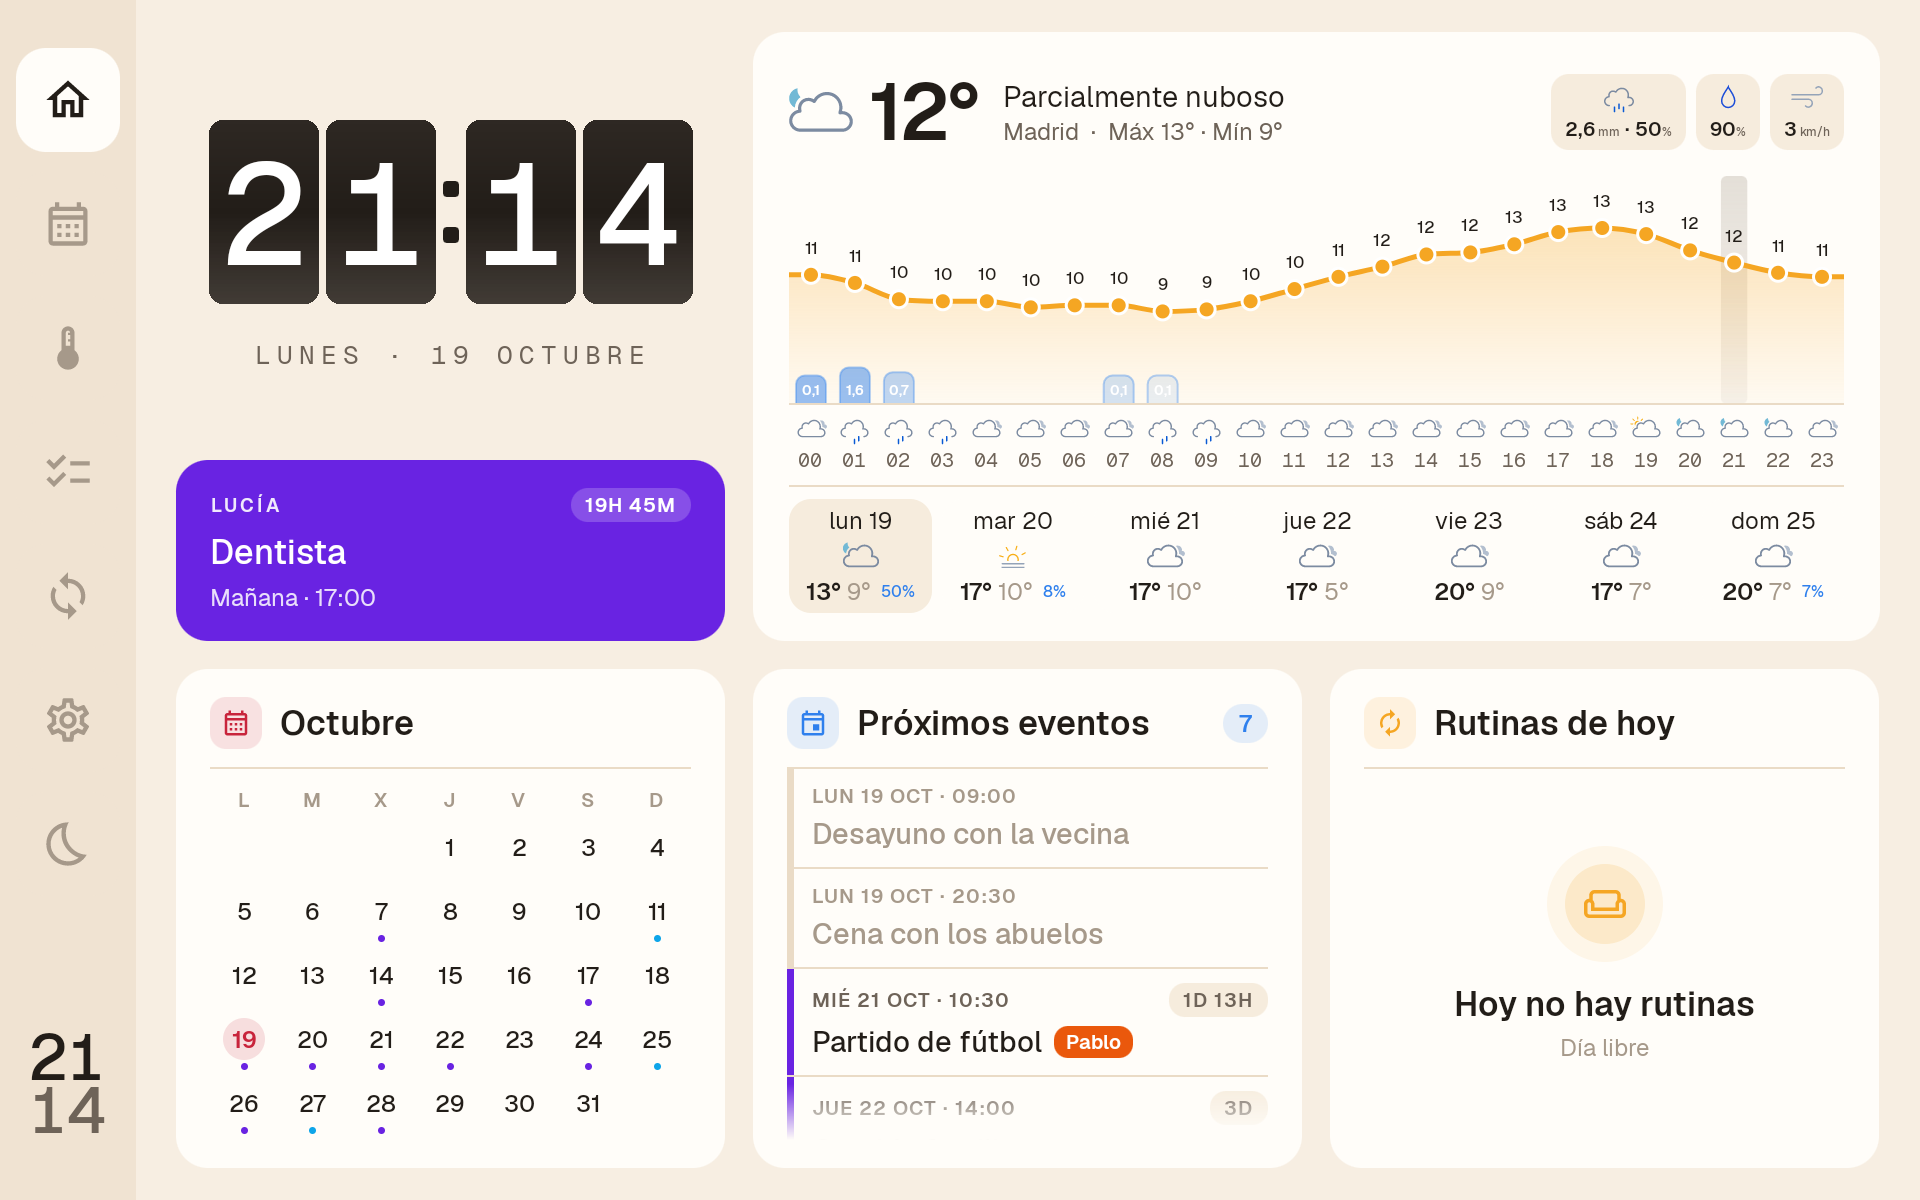
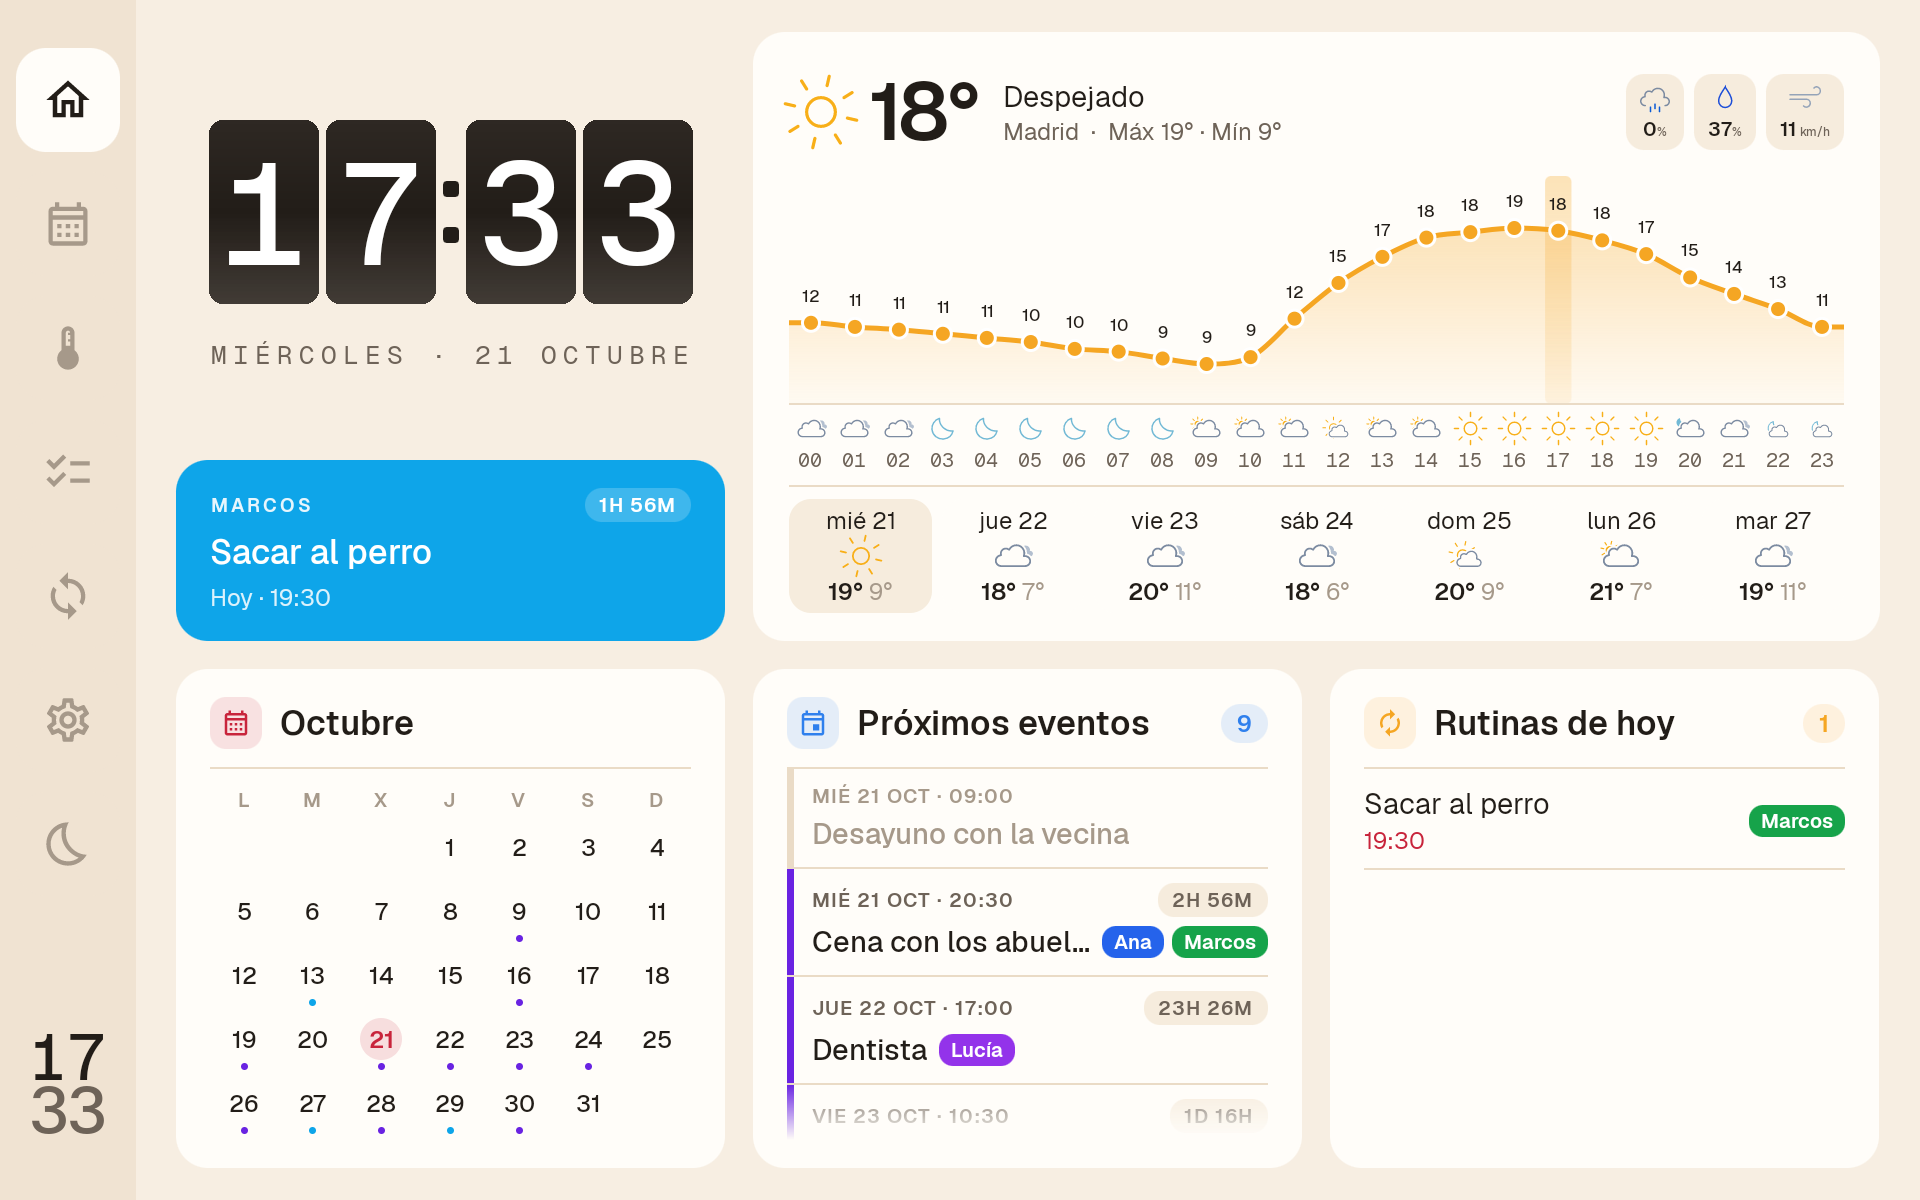
Hoy: la tarjeta destacada también tiene en cuenta las rutinas
Muestra lo siguiente, sea evento o sesión de rutina. Si es un evento, no se repite en Próximos eventos; una rutina
sigue también en Rutinas de hoy.

diff --git a/android/app/src/main/java/com/lito/planify/dashboard/ui/TodayScreen.kt b/android/app/src/main/java/com/lito/planify/dashboard/ui/TodayScreen.kt
@@ -129,7 +129,7 @@ private fun Card(modifier: Modifier, content: @Composable ColumnScope.() -> Unit
 private fun ClockColumn(state: UiState, modifier: Modifier) {
     val now = state.now
     val today = now.toLocalDate()
-    val next = nextEvent(state.content?.events.orEmpty().filter { it.at.toLocalDate() >= today }, now)
+    val next = nextUp(state)
     Column(modifier) {
         // Hora y fecha, centradas en el espacio que deja la tarjeta del siguiente evento
         Column(Modifier.fillMaxWidth().weight(1f), horizontalAlignment = Alignment.CenterHorizontally, verticalArrangement = Arrangement.Center) {
@@ -145,8 +145,14 @@ private fun ClockColumn(state: UiState, modifier: Modifier) {
     }
 }
 
-/** El siguiente evento: el primero que aún no ha empezado. Va en su tarjeta y no se repite en la lista de próximos. */
-private fun nextEvent(events: List<Event>, now: LocalDateTime): Event? = events.firstOrNull { !it.at.isBefore(now) }
+/**
+ * Lo siguiente: el primer evento o sesión de rutina que aún no ha empezado. Va en su tarjeta; si es un evento, no se
+ * repite en la lista de próximos (las rutinas siguen todas en la suya).
+ */
+private fun nextUp(state: UiState): Event? {
+    val content = state.content ?: return null
+    return (content.events + content.sessions).filter { !it.at.isBefore(state.now) }.minByOrNull { it.at }
+}
 
 /**
  * Próximo evento en una tarjeta del color de su calendario. Arriba, sus personas y, a la derecha, lo que falta en una
@@ -284,9 +290,8 @@ private fun EventsCard(state: UiState, day: LocalDate?, modifier: Modifier) {
     val events = if (day != null) {
         all.filter { it.at.toLocalDate() == day }
     } else {
-        val upcoming = all.filter { it.at.toLocalDate() >= now.toLocalDate() }
-        val next = nextEvent(upcoming, now)
-        upcoming.filter { it !== next }
+        val next = nextUp(state)
+        all.filter { it.at.toLocalDate() >= now.toLocalDate() && it !== next }
     }
     Card(modifier) {
         val dayName = day?.let { "${it.weekdayName()} ${it.dayOfMonth}" }

diff --git a/docs/ARCHITECTURE.md b/docs/ARCHITECTURE.md
@@ -9,7 +9,7 @@ La barra lateral izquierda tiene arriba, solo con iconos, Hoy, Calendario, Tiemp
 Sin sesión iniciada se muestra el login (icono de Planify y formulario, centrados). Si no hay Internet, en su lugar aparece "Esperando conexión a Internet…" con "Ir a Ajustes" (ajustes de Wi-Fi), y el formulario aparece solo cuando llega la red.
 
 - **Hoy:** rejilla de 3 columnas en dos filas (55 % y 45 % del alto).
-  - Arriba, en 1/3, la hora y la fecha centradas y el **siguiente** evento (tarjeta del color de su calendario: sus personas y, a la derecha, lo que falta en una píldora, como en la lista de próximos eventos; debajo, el título y el día y la hora). Ese evento no se repite en la lista de próximos eventos. En 2/3, la **tarjeta del tiempo**: icono, temperatura y estado; lluvia del día, humedad y viento como iconos con su valor (Meteocons estáticos); la curva hora a hora del día de hoy, de 00 a 23 h (la hora actual marcada con una banda translúcida, amarilla de día y gris de noche; la temperatura de todas las horas, pequeña y sin «°») con barras de lluvia solo donde llueve (el alto es la cantidad y el relleno, la probabilidad; ver más abajo); debajo, el icono del tiempo de cada hora y, abajo del todo, la hora; y, separados por una línea, los días en columnas, que se deslizan para ver la semana siguiente (vuelven a la primera a los 2 minutos). Al tocar un día, la cabecera y la curva pasan a ese día; tocarlo otra vez, o tocar hoy, vuelve a hoy (y vuelve solo a los 2 minutos). Deslizar sobre la curva pasa al día anterior o al siguiente: la curva es un pager de días que sigue al dedo (los días de abajo pasan a la página del día).
+  - Arriba, en 1/3, la hora y la fecha centradas y lo **siguiente**, sea evento o rutina (tarjeta del color de su calendario: sus personas y, a la derecha, lo que falta en una píldora, como en la lista de próximos eventos; debajo, el título y el día y la hora). Si es un evento, no se repite en la lista de próximos eventos; una rutina sigue también en la suya. En 2/3, la **tarjeta del tiempo**: icono, temperatura y estado; lluvia del día, humedad y viento como iconos con su valor (Meteocons estáticos); la curva hora a hora del día de hoy, de 00 a 23 h (la hora actual marcada con una banda translúcida, amarilla de día y gris de noche; la temperatura de todas las horas, pequeña y sin «°») con barras de lluvia solo donde llueve (el alto es la cantidad y el relleno, la probabilidad; ver más abajo); debajo, el icono del tiempo de cada hora y, abajo del todo, la hora; y, separados por una línea, los días en columnas, que se deslizan para ver la semana siguiente (vuelven a la primera a los 2 minutos). Al tocar un día, la cabecera y la curva pasan a ese día; tocarlo otra vez, o tocar hoy, vuelve a hoy (y vuelve solo a los 2 minutos). Deslizar sobre la curva pasa al día anterior o al siguiente: la curva es un pager de días que sigue al dedo (los días de abajo pasan a la página del día).
   - Abajo, el **calendario del mes**, como el de Eventos de la app (las iniciales de los días; hoy en un círculo rojo suave; un punto por cada calendario con eventos ese día, hasta 3), que se desliza para cambiar de mes (12 hacia atrás y 12 hacia delante; el título lleva el año si no es el actual); **próximos eventos** con el formato del widget de la app (barra de color, "MIÉ 14 OCT · 16:00" con el tiempo que falta en una píldora, título y personas; los pasados en gris), y **rutinas de hoy** (la lista, con la siguiente resaltada y las pasadas atenuadas). Al tocar un día del calendario se marca con un aro gris y próximos eventos pasa a ser la lista de ese día ("Miércoles 21", incluido el siguiente evento); tocarlo otra vez vuelve a la lista. Tras 5 minutos sin tocar la pantalla, el calendario vuelve al mes actual y la lista a los próximos eventos.
 - **Calendario:** dos filas, la semana actual y la siguiente, de lunes a domingo, sin título (como el diseño de referencia). Se desliza en vertical de semana en semana (`VerticalPager` con páginas de media pantalla; un año hacia cada lado; "Volver a hoy", flotando abajo a la derecha, regresa a la actual). Cada día es una tarjeta (hoy, más clara): arriba el día de la semana ("Hoy" en rojo; el día 1, también el mes) y el número a la derecha; debajo, en una línea de alto fijo, el icono del tiempo, máxima y mínima y la lluvia con su gota; luego los eventos (barra de color, hora, título y personas) y abajo, en una caja, las rutinas (hora, un punto por persona y el nombre, que sigue en la línea de debajo). Los días pasados, atenuados. Cada semana se descarga al mostrarla, junto con las vecinas.
 - **Tiempo:** dos páginas que se deslizan. La primera es la tarjeta del tiempo a pantalla completa: el mismo día de hoy de 00 a 23 h que en Hoy (la temperatura de cada hora, también sin «°»), con el icono de cada hora encima de la hora, y 7 días. La segunda, la **semana siguiente** (días 8 a 14): gráfica de máximas y mínimas, lluvia (% y mm) y viento, y las columnas de cada día. En las dos páginas, tocar un día abre sus 24 horas (en la segunda, en lugar de la gráfica semanal) y tocarlo otra vez lo cierra. Deslizar sobre la gráfica cambia de día sin cambiar de página, con la gráfica siguiendo al dedo (en la segunda: semana → lunes → … → domingo); al pasar del último día de la primera sigue la segunda, y antes de su semana se vuelve a la primera. Deslizar fuera de la gráfica, entre las dos páginas.

diff --git a/README.md b/README.md
@@ -35,7 +35,7 @@ Este proyecto está conectado con la aplicación y el backend de Planify:
 Todas las secciones de la app, en el emulador con las medidas del marco (1920×1200) y datos de demostración.
 
 ### Hoy
-La pantalla principal: reloj de paletas, el siguiente evento con cuenta atrás, el tiempo (ahora, el día de hoy de 00 a 23 h con la hora actual marcada y los próximos días; deslizando sobre la curva se cambia de día), el calendario del mes, los próximos eventos y las rutinas de hoy. Al tocar un día del calendario, la lista pasa a ser la de ese día.
+La pantalla principal: reloj de paletas, el siguiente evento o rutina con cuenta atrás, el tiempo (ahora, el día de hoy de 00 a 23 h con la hora actual marcada y los próximos días; deslizando sobre la curva se cambia de día), el calendario del mes, los próximos eventos y las rutinas de hoy. Al tocar un día del calendario, la lista pasa a ser la de ese día.
 
 <img src="docs/images/today.png" alt="Hoy" />
 
@@ -269,7 +269,7 @@ Barra lateral con Hoy, Calendario, Tiempo, Tareas, sincronizar, Ajustes y apagar
 
 | Pantalla | Contenido |
 |---|---|
-| **Hoy** | Reloj de paletas (split-flap), el siguiente evento con cuenta atrás, el tiempo (ahora, el día de hoy de 00 a 23 h con la hora actual marcada y los próximos días, que se deslizan), calendario del mes, próximos eventos y rutinas de hoy |
+| **Hoy** | Reloj de paletas (split-flap), el siguiente evento o rutina con cuenta atrás, el tiempo (ahora, el día de hoy de 00 a 23 h con la hora actual marcada y los próximos días, que se deslizan), calendario del mes, próximos eventos y rutinas de hoy |
 | **Calendario** | Dos semanas en dos filas, deslizando en vertical: el tiempo de cada día, los eventos y una caja con las rutinas |
 | **Tiempo** | Hoy de 00 a 23 h y 7 días; la semana siguiente en gráfica; tocar un día abre sus 24 horas con su cabecera |
 | **Tareas** | Todas las listas elegidas, en columnas |
